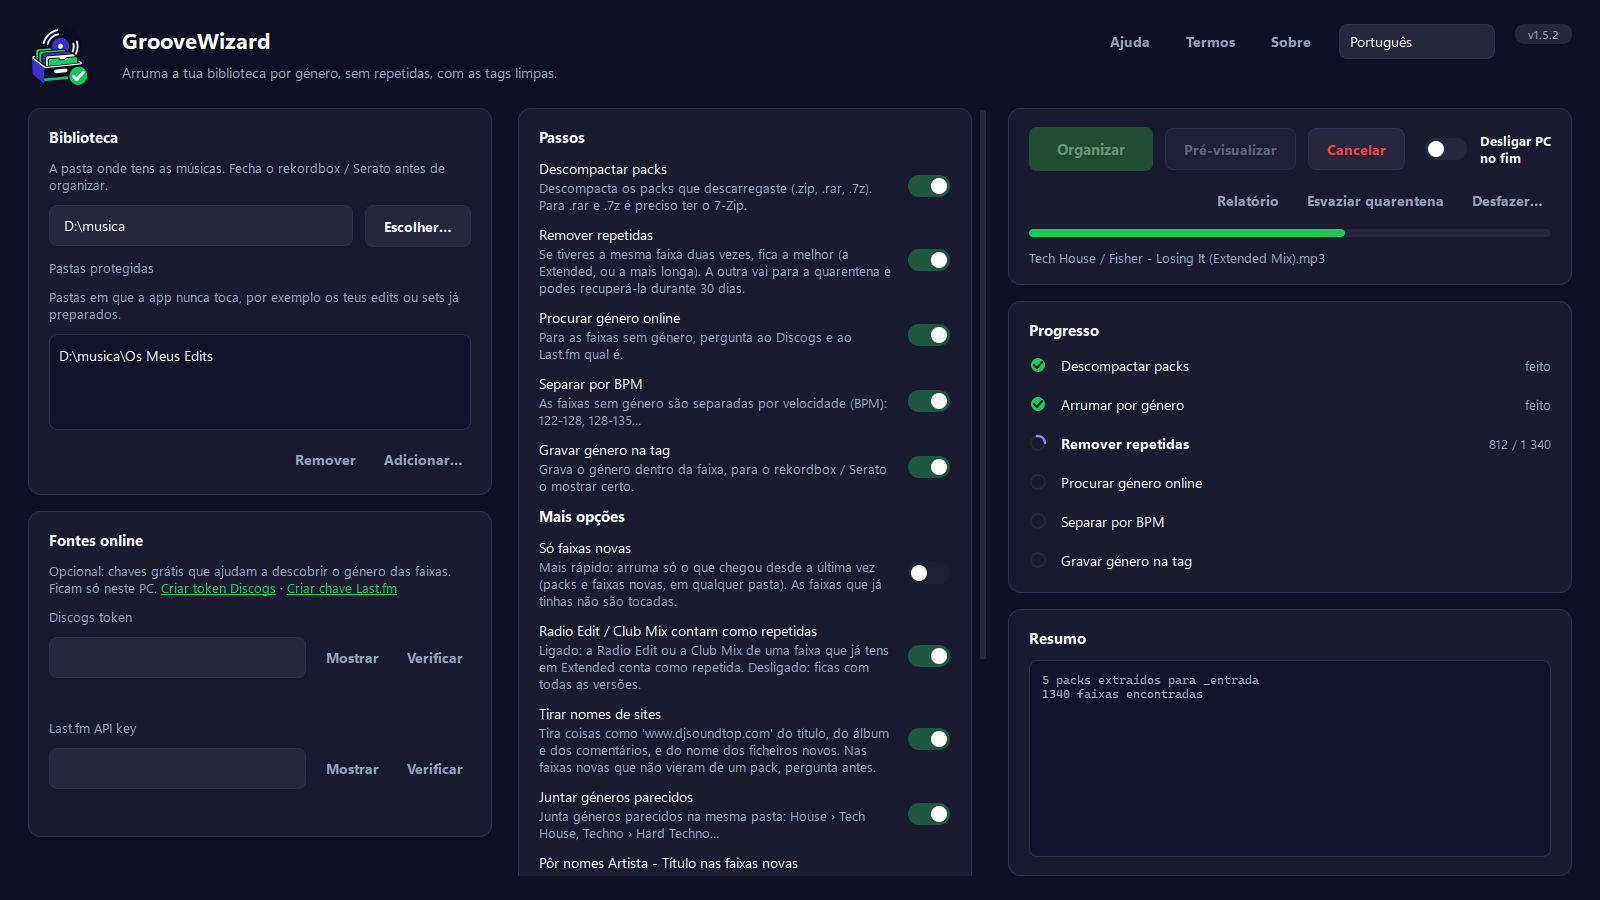
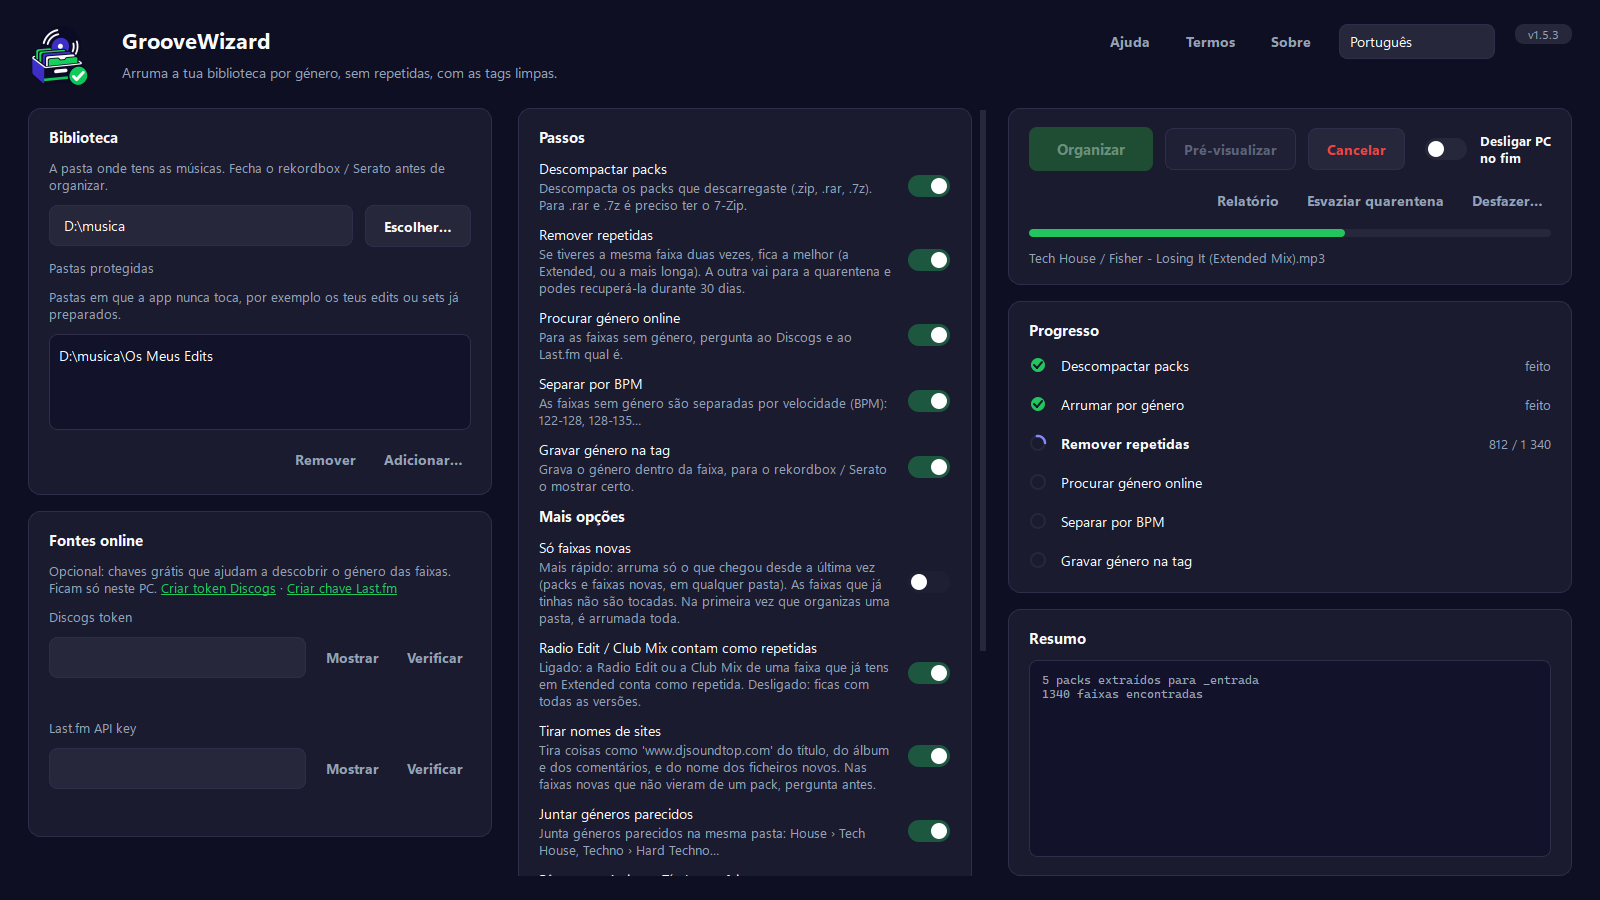
GrooveWizard 1.5.3: 'Só faixas novas' na primeira organização arruma tudo
- Sem uma organização completa terminada (primeira vez, ou a primeira foi cancelada), a pasta é arrumada toda
- O resumo explica porquê; a opção e a ajuda dizem-no
- A lista da pré-visualização deixa de valer se outra janela mudar isto entretanto

Changed region(s): [[0.3125, 0.6533, 0.5938, 0.9644], [0.5625, 0.6222, 0.5938, 0.6533]]

diff --git a/organizador/pipeline.py b/organizador/pipeline.py
@@ -235,6 +235,9 @@ class Organizer:
         self._fps = set(inv.get("fps", []))
         self._legacy_sizes = set(inv.get("legacy_sizes", []))
         self._fp_cache = inv.get("cache", {}) if isinstance(inv.get("cache"), dict) else {}  # rel -> [size, mtime, fp]
+        # a full organize reached its end at least once (lists from before 1.5.3 came from full organizes)
+        self._full_done = self.known is not None and bool(inv.get("full_done", True))
+        self._finished = False
         self._pending = set()  # never-seen tracks not settled yet (no answer, or the rename failed): stay new
         self._start = []
         self._settled = []
@@ -246,6 +249,10 @@ class Organizer:
         self._skip = {os.path.normcase(p) for p in (skip or [])}
         self._skip_paths = list(skip or [])
         self._fresh = set()  # only_new: tracks this run works on besides _entrada (followed when moved)
+        # 'Only new tracks' needs one full organize that reached its end (first time, or the first one was cancelled):
+        # until then the whole library is sorted
+        self.only_new = opts.only_new and self._full_done
+        self.only_new_first = opts.only_new and not self.only_new  # reported, so the user knows why it took longer
         self.plan = []  # filled by preview(): (kind, path, detail) rows for the review list
         self.snapshot = None  # filled by preview(): library_snapshot() the list was made from
         self.dup_best = {}  # duplicate -> the copy that stays
@@ -382,7 +389,7 @@ class Organizer:
         """Keeps where each track that was new at the start went, so the inventory follows it."""
         k = os.path.normcase(src)
         self._moved_from[os.path.normcase(dst)] = k
-        if self.opts.only_new and (k in self._fresh or self._in_inbox(src)):
+        if self.only_new and (k in self._fresh or self._in_inbox(src)):
             self._fresh.add(os.path.normcase(dst))
         if k in self._pending:
             self._pending.discard(k)
@@ -478,8 +485,9 @@ class Organizer:
                 cache[rel] = self._fp_cache[rel]
             except (OSError, KeyError):
                 legacy.add(size)  # here but no fingerprint: its size alone must keep counting as known
+        full_done = self._full_done or (self._finished and not self.only_new)
         _write_json(self._inventory_path, {"paths": sorted(paths), "sizes": sorted(sizes), "fps": sorted(fps),
-                                           "legacy_sizes": sorted(legacy), "cache": cache})
+                                           "legacy_sizes": sorted(legacy), "cache": cache, "full_done": full_done})
 
     def _in_inbox(self, p):
         return os.path.normcase(p).startswith(os.path.normcase(os.path.join(self.root, INBOX)) + os.sep)
@@ -491,7 +499,7 @@ class Organizer:
 
     def _in_scope(self, p):
         """'Only new tracks': _entrada and the tracks never seen before (where they went during this run)."""
-        return not self.opts.only_new or self._in_inbox(p) or os.path.normcase(p) in self._fresh
+        return not self.only_new or self._in_inbox(p) or os.path.normcase(p) in self._fresh
 
     def _walk(self, base=None):
         """os.walk of the library without protected folders, transfers in progress and the root-level '_' folders
@@ -973,6 +981,8 @@ class Organizer:
         if renames and self.known is not None:  # never-seen at the start: stay new if we stop before the question
             self._pending = {os.path.normcase(p) for p in self.audio_files() if self.is_new(p)}
         self._fresh = self._new_tracks()
+        if self.only_new_first:
+            self.report["only_new_first"] = 1
         self._start = self._identities()  # where/what every track was before this run: Undo puts them back there
         self._start_paths = {os.path.normcase(p) for p in self.audio_files()}
         try:
@@ -980,6 +990,7 @@ class Organizer:
                 if on:
                     fn()
             self.remove_empty_dirs()
+            self._finished = True  # not cancelled, no crash
         finally:
             try:
                 self.save_inventory()
@@ -998,7 +1009,7 @@ class Organizer:
     def library_snapshot(self, files=None):
         """Tracks and packs as they are now (path, size, modified): the review list only holds while this is unchanged
         (a download finishing after the Preview would otherwise be organized without ever being on the list)."""
-        out = set()
+        out = {("only_new", self.only_new)}  # another window finishing a first organize changes what Organize does
         for p in list(files if files is not None else self.audio_files()) + self.pending_archives():
             try:
                 st = os.stat(p)
@@ -1009,7 +1020,7 @@ class Organizer:
 
     def _new_tracks(self):
         """'Only new tracks': the never-seen tracks outside _entrada (before the first run: none)."""
-        return {os.path.normcase(p) for p in self.audio_files() if self.is_new(p)} if self.opts.only_new else set()
+        return {os.path.normcase(p) for p in self.audio_files() if self.is_new(p)} if self.only_new else set()
 
     def _preview(self):
         """Counts for the summary, and self.plan: one row per track that will change, for the review list
@@ -1055,6 +1066,8 @@ class Organizer:
             if p in sites:
                 self.plan.append(("site_name", p, sites[p]))
         rep["tracks"] = len(files)
+        if self.only_new_first:
+            rep["only_new_first"] = 1
         # counted from the list: tracks headed for a protected folder were left out above (Organize leaves them)
         rep["site_names_ask"] = sum(1 for k, _, _ in self.plan if k == "site_name")
         rep["rename_ask"] = sum(1 for k, _, _ in self.plan if k == "rename_ask")

diff --git a/organizador/i18n.py b/organizador/i18n.py
@@ -229,7 +229,10 @@ S = {
                            "en": "Online lookup skipped: no Discogs/Last.fm keys and MusicBrainz is off."},
     # 1.5.0: only new tracks, protected folders, review list, undo history, library report
     "opt.only_new": {"pt": "Só faixas novas", "en": "Only new tracks"},
-    "opt.only_new_d": {"pt": "Mais rápido: arruma só o que chegou desde a última vez (packs e faixas novas, em qualquer pasta). As faixas que já tinhas não são tocadas.", "en": "Faster: only sorts what arrived since last time (packs and new tracks, in any folder). Tracks you already had are left alone."},
+    "opt.only_new_d": {"pt": "Mais rápido: arruma só o que chegou desde a última vez (packs e faixas novas, em qualquer pasta). As faixas que já tinhas não são tocadas. Na primeira vez que organizas uma pasta, é arrumada toda.", "en": "Faster: only sorts what arrived since last time (packs and new tracks, in any folder). Tracks you already had are left alone. The first time you organize a folder, all of it is sorted."},
+    "log.only_new_first": {"pt": "Primeira organização desta pasta: foi arrumada toda. A partir da próxima vez, 'Só faixas novas' arruma só o que chegar de novo.",
+                           "en": "First organize of this folder: all of it was sorted. From next time on, 'Only new tracks' sorts only what's new."},
+    "rep.only_new_first": {"pt": "primeira organização: pasta arrumada toda", "en": "first organize: whole folder sorted"},
     "protect.title": {"pt": "Pastas protegidas", "en": "Protected folders"},
     "protect.hint": {"pt": "Pastas em que a app nunca toca, por exemplo os teus edits ou sets já preparados.", "en": "Folders the app never touches, for example your own edits or prepared sets."},
     "protect.add": {"pt": "Adicionar…", "en": "Add…"},

diff --git a/organizador/ajuda.py b/organizador/ajuda.py
@@ -68,8 +68,8 @@ HELP = {
 <ul>
   <li><b>Pastas protegidas</b> (em Biblioteca): pastas em que a app nunca toca, por exemplo os teus edits.</li>
   <li><b>Só faixas novas:</b> mais rápido. Arruma só o que chegou desde a última vez (packs e faixas novas, em
-      qualquer pasta). As faixas que já tinhas não são tocadas. De vez em quando organiza sem esta opção, para
-      arrumar tudo.</li>
+      qualquer pasta). As faixas que já tinhas não são tocadas. Na primeira vez que organizas uma pasta, ela é arrumada
+      toda. De vez em quando organiza sem esta opção, para arrumar tudo.</li>
   <li><b>Relatório:</b> mostra as faixas com problemas, sem mexer em nada: sem artista ou título, sem género, MP3 de
       menor qualidade ou muito curtas. Abre no Excel.</li>
 </ul>
@@ -137,7 +137,8 @@ HELP = {
 <ul>
   <li><b>Protected folders</b> (under Library): folders the app never touches, for example your own edits.</li>
   <li><b>Only new tracks:</b> faster. Only sorts what arrived since last time (packs and new tracks, in any folder).
-      Tracks you already had are left alone. Now and then organize without this option to tidy everything.</li>
+      Tracks you already had are left alone. The first time you organize a folder, all of it is sorted. Now and then
+      organize without this option to tidy everything.</li>
   <li><b>Report:</b> shows tracks with problems, without changing anything: no artist or title, no genre,
       lower-quality MP3 or very short. Opens in Excel.</li>
 </ul>

diff --git a/tests/test_pipeline.py b/tests/test_pipeline.py
@@ -394,8 +394,21 @@ def test_only_new():
     root = os.path.join(TMP, "novas")
     old = make(os.path.join(root, "solta", "A - Old.wav"), 1, "A", "Old", "Techno")
     opts = pl.Options(root=root, online=False, bpm_folders=False, dedupe=True, only_new=True)
-    pl.Organizer(opts).run()  # first run: no list of known tracks yet, so only _entrada counts
-    assert os.path.exists(old)
+    org = pl.Organizer(opts)
+    assert org.preview()["only_new_first"] == 1
+
+    def stop(*a):
+        raise pl.Cancelled()
+    org = pl.Organizer(opts, progress=stop)  # first organize cancelled straight away: nothing sorted yet
+    try:
+        org.run()
+    except pl.Cancelled:
+        pass
+    assert os.path.exists(old) and pl.Organizer(opts).only_new_first  # still sorts everything next time
+    rep, _ = pl.Organizer(opts).run()  # first organize of this library: everything is sorted, and the user is told
+    assert rep["only_new_first"] == 1 and not os.path.exists(old)
+    old = os.path.join(root, "Techno", "Techno", "A - Old.wav")
+    assert os.path.exists(old) and "only_new_first" not in pl.Organizer(opts).run()[0]  # from now on: only new
     new = make(os.path.join(root, "B - New.wav"), 3, "B", "New", "Techno")
     dup_old = make(os.path.join(root, "solta", "C - Same (Original Mix).wav"), 2, "C", "Same (Original Mix)", "House")
     org = pl.Organizer(opts)

diff --git a/organizador/gui.py b/organizador/gui.py
@@ -818,7 +818,10 @@ class Window(QMainWindow):
         self.status.setText(t("status.preview_done") if kind == "preview" else t("status.done"))
         self.show_stats(rep)
         for k, v in sorted(rep.items(), key=lambda kv: -kv[1]):
-            self.log.appendPlainText(f"{v:>7}  {report_label(k)}")
+            if k != "only_new_first":  # a note, not a count
+                self.log.appendPlainText(f"{v:>7}  {report_label(k)}")
+        if rep.get("only_new_first"):
+            self.log.appendPlainText(t("log.only_new_first"))
         if errs:
             self.log.appendPlainText(t("log.warnings", n=len(errs)))
             for e in errs[:100]:

diff --git a/organizador/__init__.py b/organizador/__init__.py
@@ -1,2 +1,2 @@
 """GrooveWizard: sorts a DJ music library by genre."""
-__version__ = "1.5.2"
+__version__ = "1.5.3"

diff --git a/README.md b/README.md
@@ -30,7 +30,7 @@ Called <i>Cratekeeper</i> up to 1.1.0; updating keeps settings, keys and history
 7. **Limpa os nomes das faixas novas**: tira o site do nome do ficheiro e, se quiseres, dá o nome `Artista - Título (Extended Mix)`. As faixas dos packs mudam logo; outras faixas novas só depois de confirmares. As que já tinhas não mudam de nome (o rekordbox deixaria de as encontrar), a não ser que ligues a opção para as faixas antigas, que pergunta antes.
 8. **Agrupa géneros parecidos**: `House/Tech House`, `Techno/Hard Techno`, `Melodic & Indie/…`, `Bass & Breaks/…`, `Dance & Mainstage/…`.
 9. **Pastas protegidas**: escolhes pastas em que a app nunca toca (os teus edits, sets já preparados).
-10. **Só faixas novas** (opção): mais rápido, arruma só o que chegou desde a última vez. As faixas que já tinhas não são tocadas.
+10. **Só faixas novas** (opção): mais rápido, arruma só o que chegou desde a última vez. As faixas que já tinhas não são tocadas. Na primeira vez que organizas uma pasta, ela é arrumada toda.
 11. **Relatório**: mostra, sem mexer em nada, as faixas sem artista ou título, sem género, MP3 de menor qualidade, muito curtas ou com tags estragadas (lista para o Excel).
 
 **Formatos de áudio:** MP3, FLAC, AIFF/AIF, WAV e M4A.
